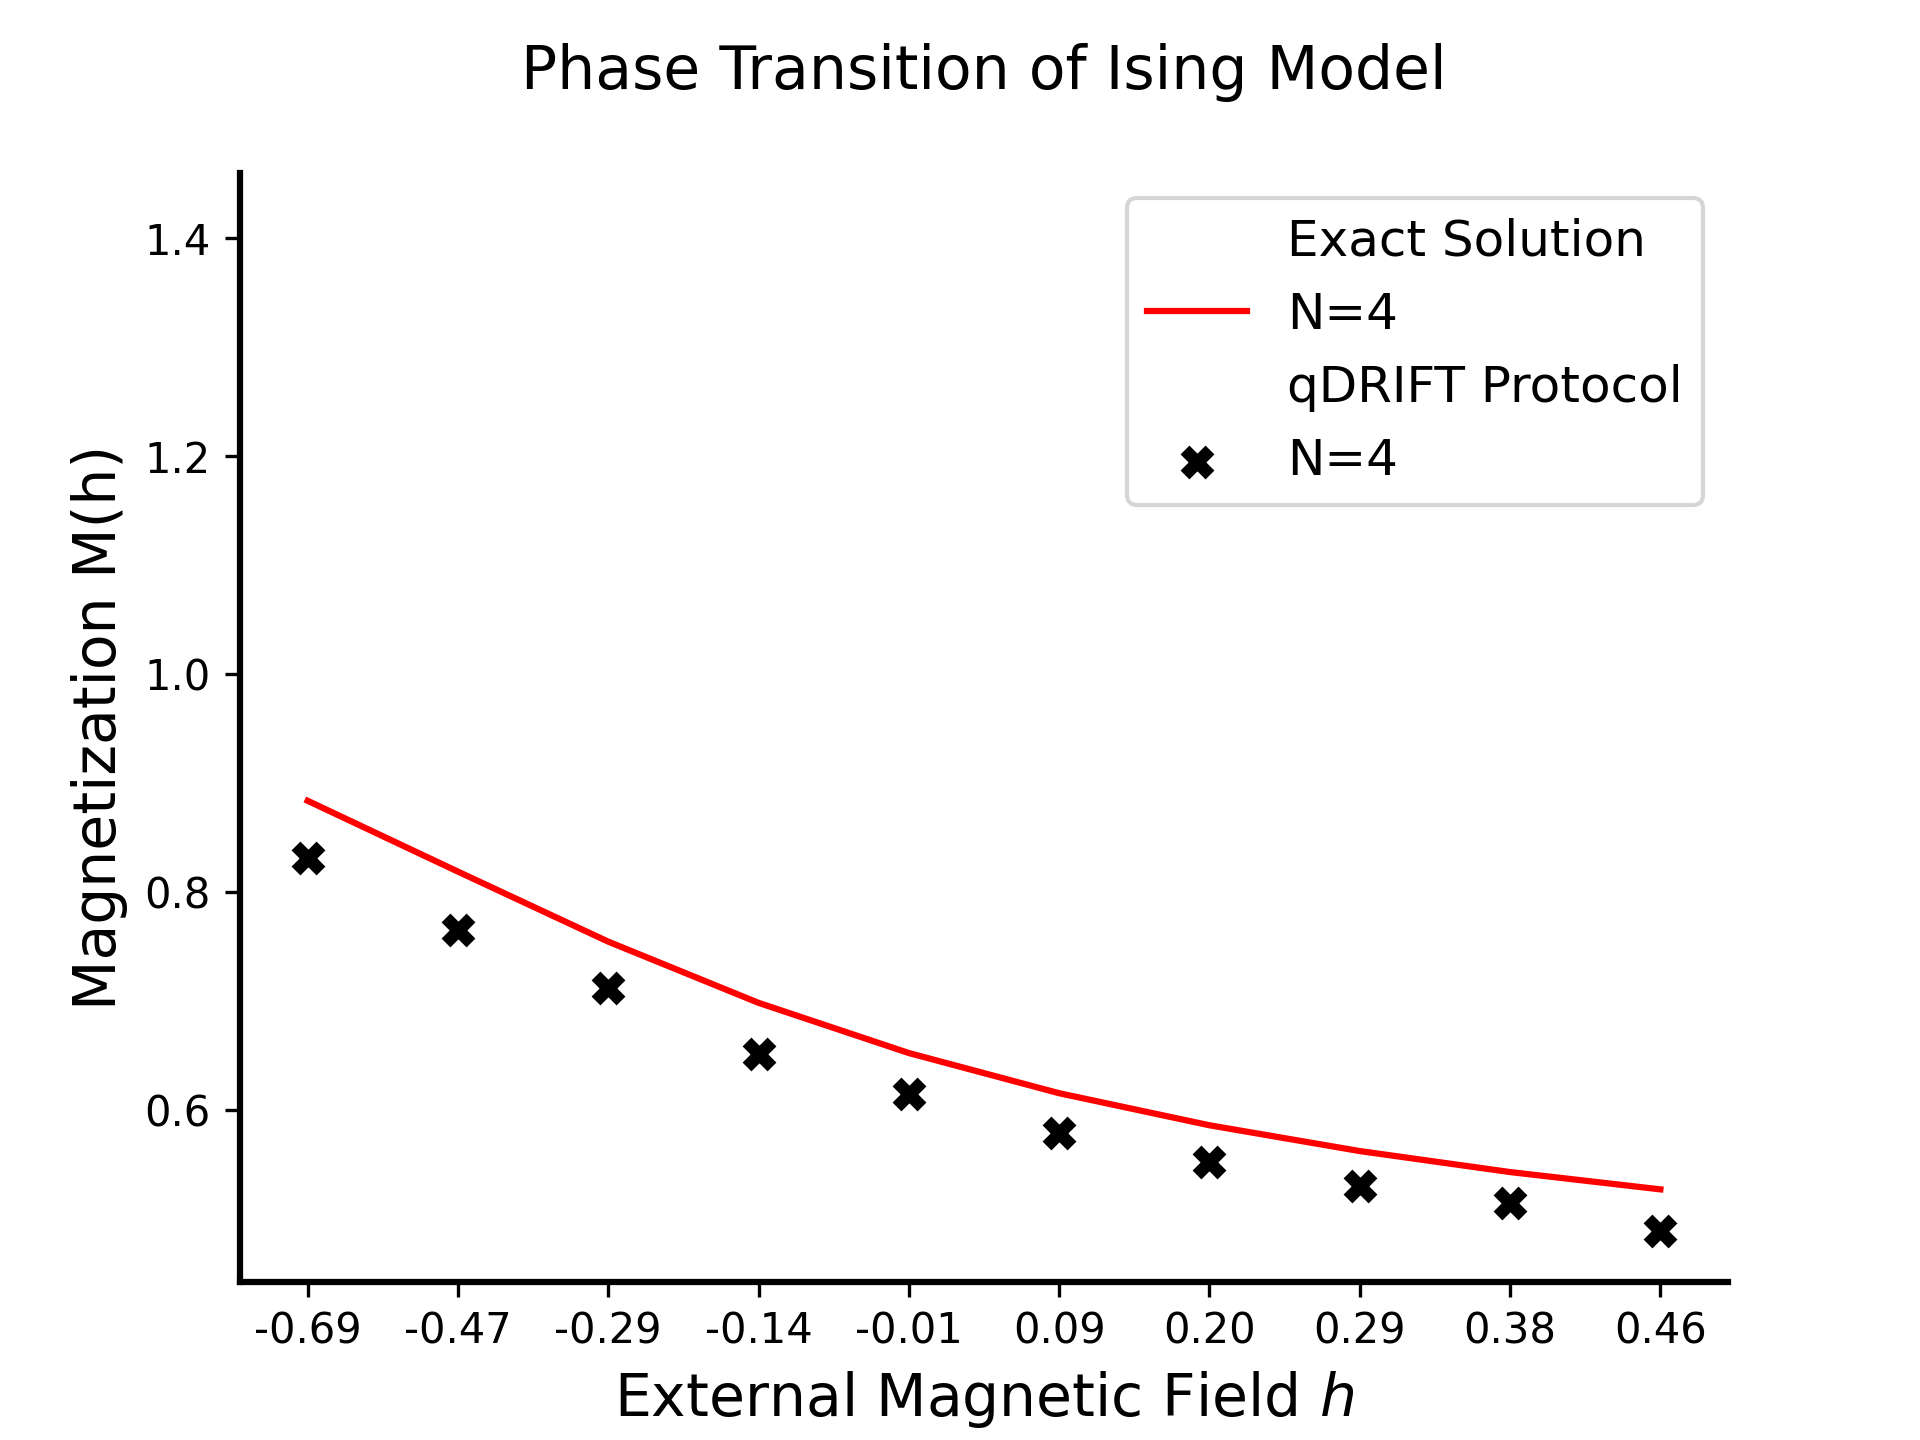
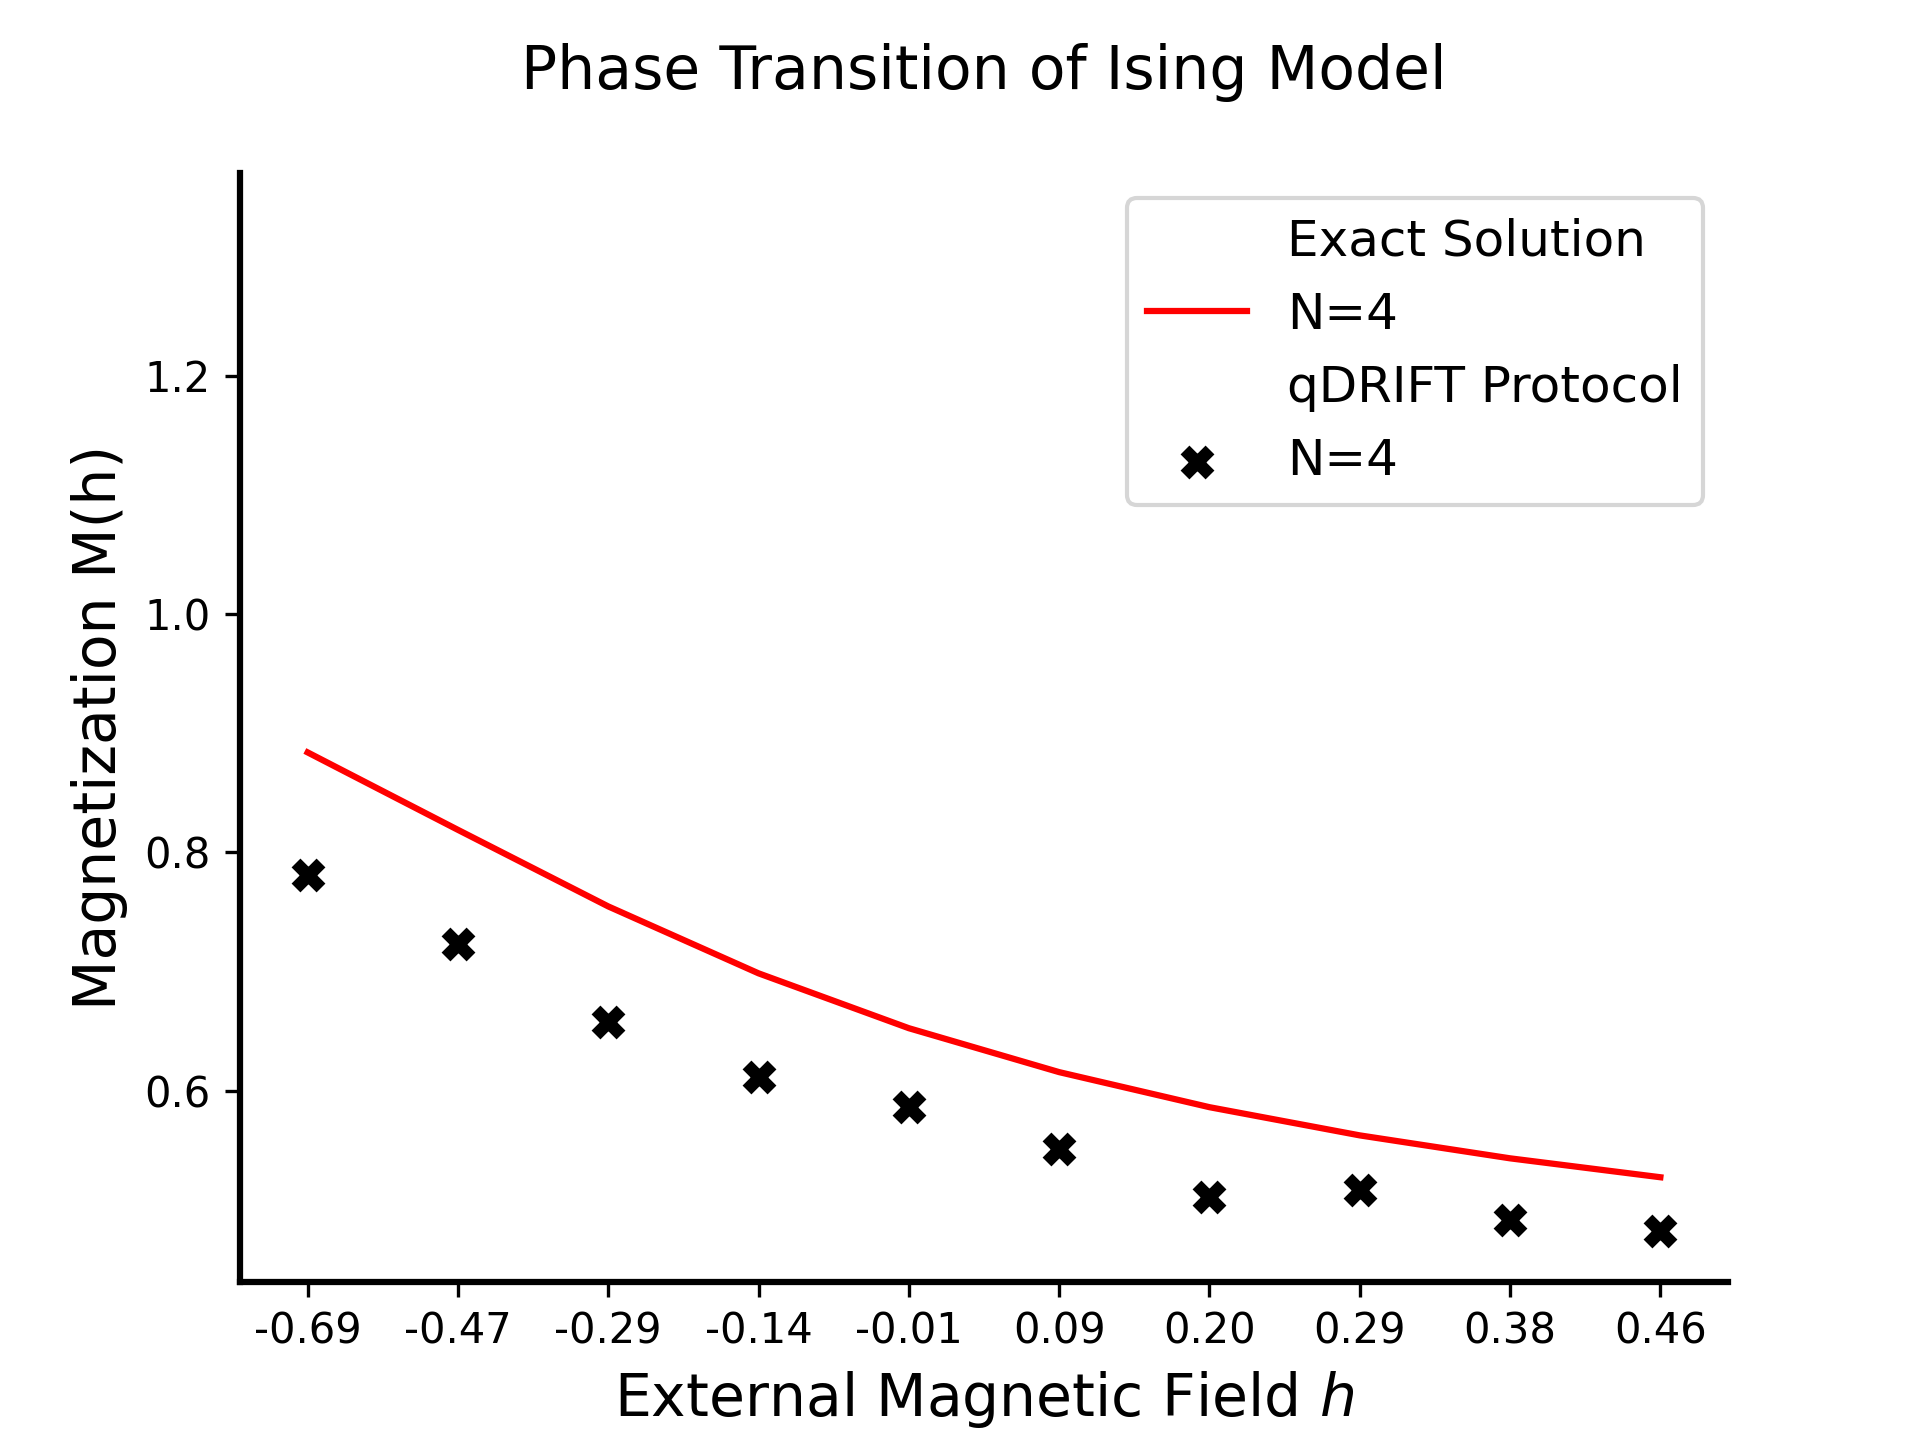
DIVIDE by 10 qDRIFT does well

diff --git a/ising/simulation/trotter/grouped_qdrift.py b/ising/simulation/trotter/grouped_qdrift.py
@@ -144,6 +144,14 @@ class GSQDriftCircuit:
         single = self.group_matrix(g_ind, time, reps)
         return np.linalg.matrix_power(single, count)
 
+    @lru_cache(maxsize=MAXSIZE)
+    def control_club_matrix(
+        self, club: tuple[int, int], time: float, reps: int, control_val: int
+    ) -> NDArray:
+        g_ind, count = club
+        single = self.group_matrix(g_ind, time, reps)
+        return control_version(np.linalg.matrix_power(single, count), control_val)
+
     def matrix(self, time: float) -> NDArray:
         # Sampling
         count = qdrift_count(self.lambd, time, self.error)
@@ -175,8 +183,21 @@ class GSQDriftCircuit:
     def control_evolve(
         self, psi_init: NDArray, time: float, control_val: int
     ) -> NDArray:
-        op = control_version(self.matrix(time), control_val)
-        return op @ psi_init
+        count = qdrift_count(self.lambd, time, self.error)
+        samples = np.random.choice(self.indices, p=self.probs, size=count).astype(int)
+
+        clubs = club_same_terms(samples)
+
+        # print(f"Time: {time} Depth: {qdrift_count(self.lambd, time, self.error)} clubs: {len(clubs)}")
+
+        psi_final = psi_init.copy()
+        for club in clubs:
+            group_op = self.control_club_matrix(
+                club, self.lambd * time, count, control_val
+            )
+            psi_final = group_op @ psi_final
+
+        return psi_final
 
     def get_observations(self, psi_init: NDArray, times: list[float]):
         if self.obs is None:

diff --git a/ising/groundstate/simulation/lcusynth.py b/ising/groundstate/simulation/lcusynth.py
@@ -7,7 +7,7 @@ from qiskit.quantum_info import SparsePauliOp
 
 from ising.hamiltonian import Hamiltonian
 from ising.utils.constants import PLUS
-from ising.utils import close_state, MAXSIZE, control_version
+from ising.utils import close_state, MAXSIZE
 from ising.groundstate.simulation.utils import (
     calculate_mu,
     ground_state_constants,

diff --git a/ising/hamiltonian/ising_one.py b/ising/hamiltonian/ising_one.py
@@ -26,7 +26,8 @@ def qdrift_count(lambd: float, time: float, eps: float) -> int:
     numr = np.abs(2 * (lambd * time) ** 2)
     dr = eps
     final = np.ceil(numr / dr).astype(int)
-    final =  max(final, 1)
+    final = final // 10
+    final =  max(final, 100)
     return final
 
 
